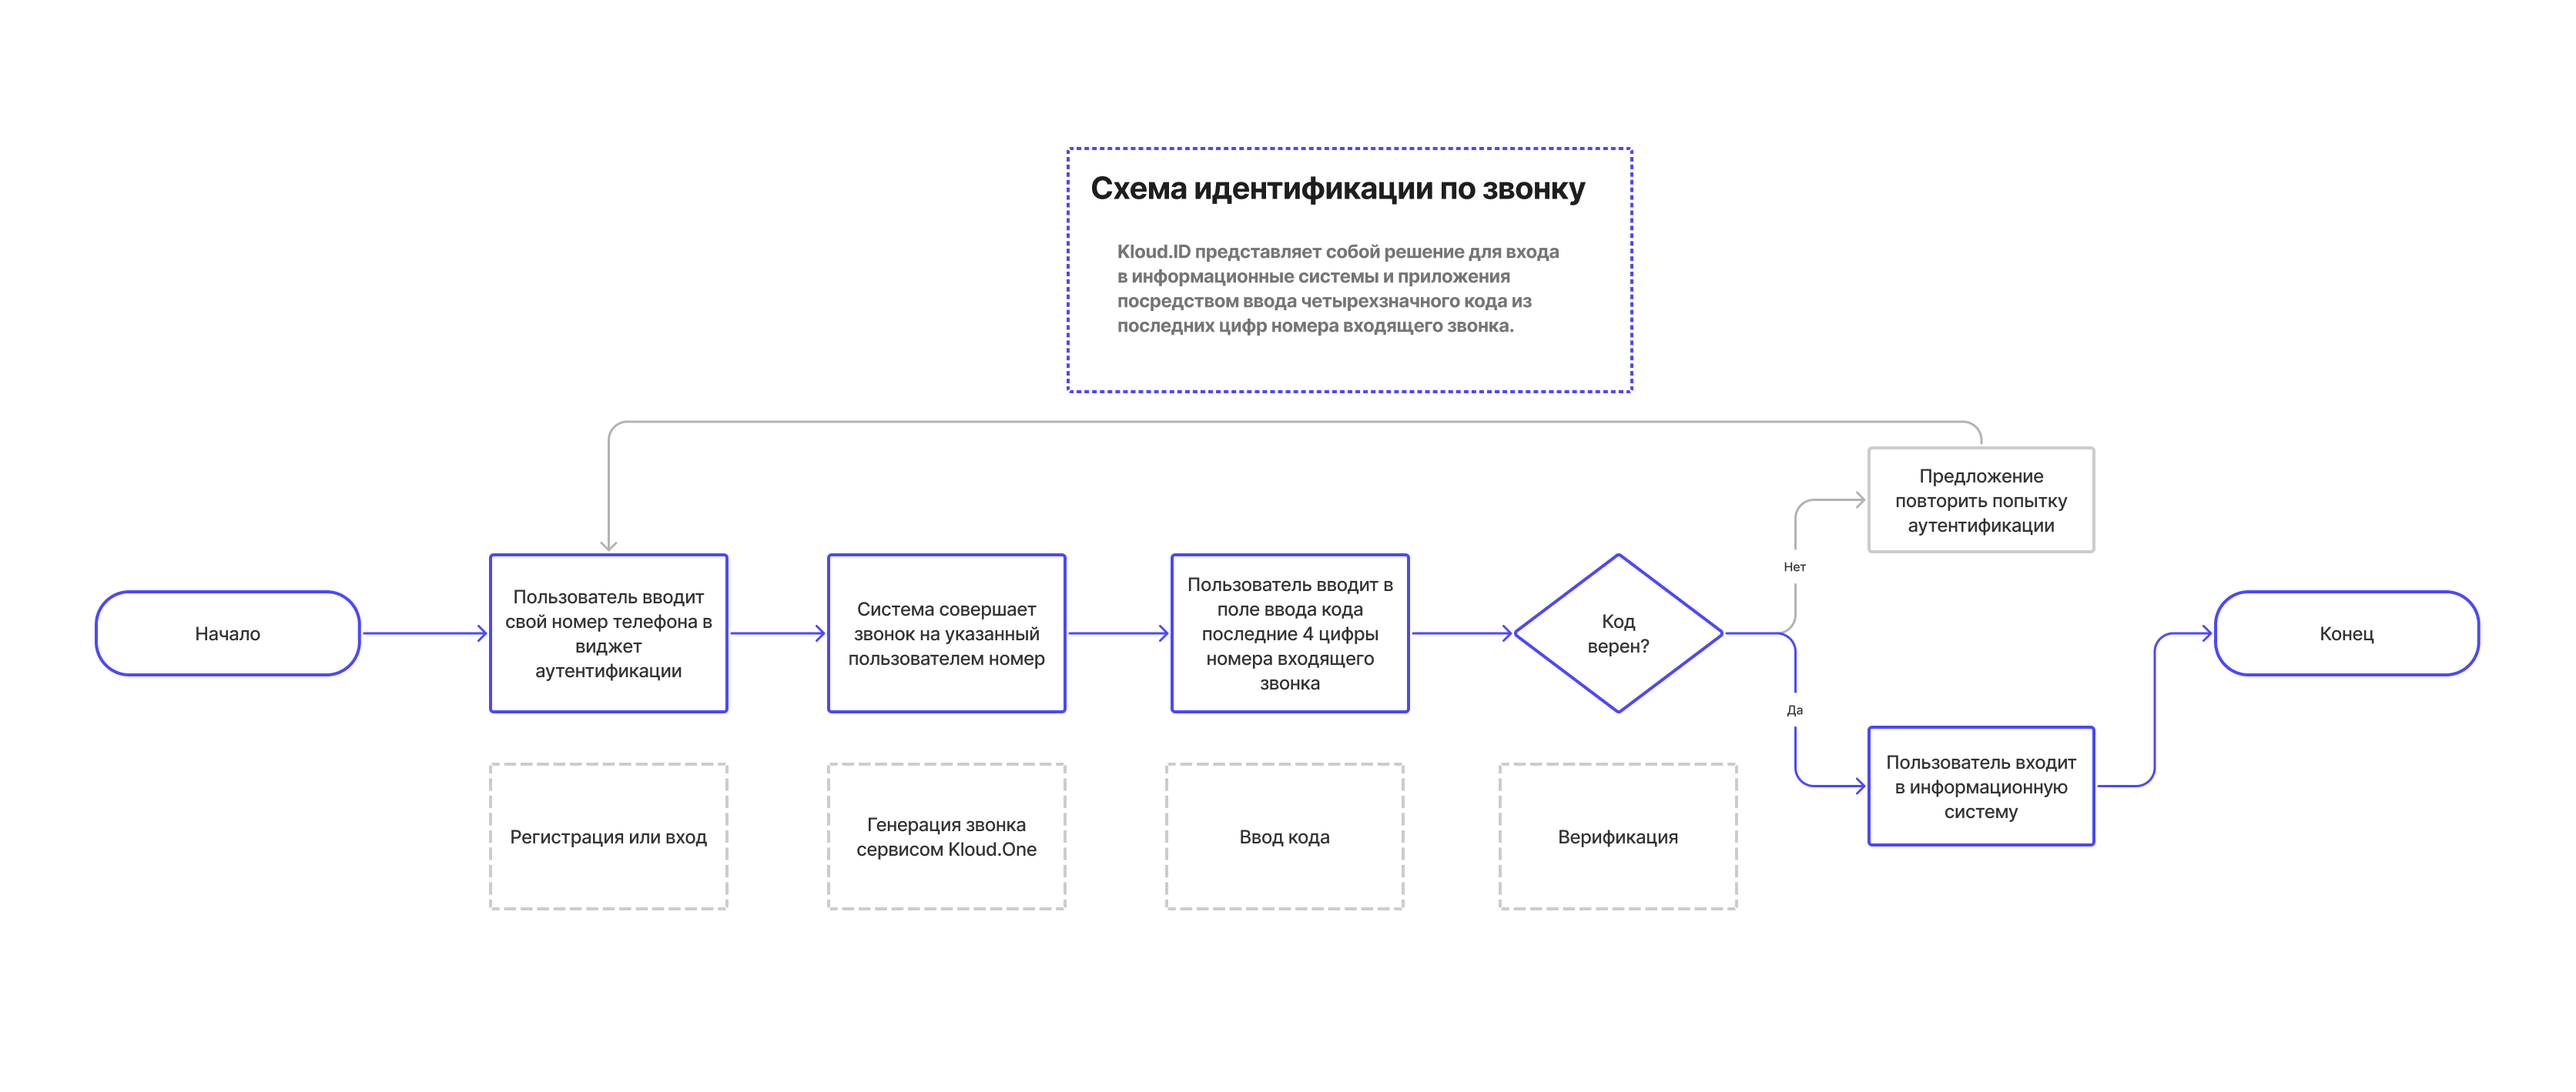
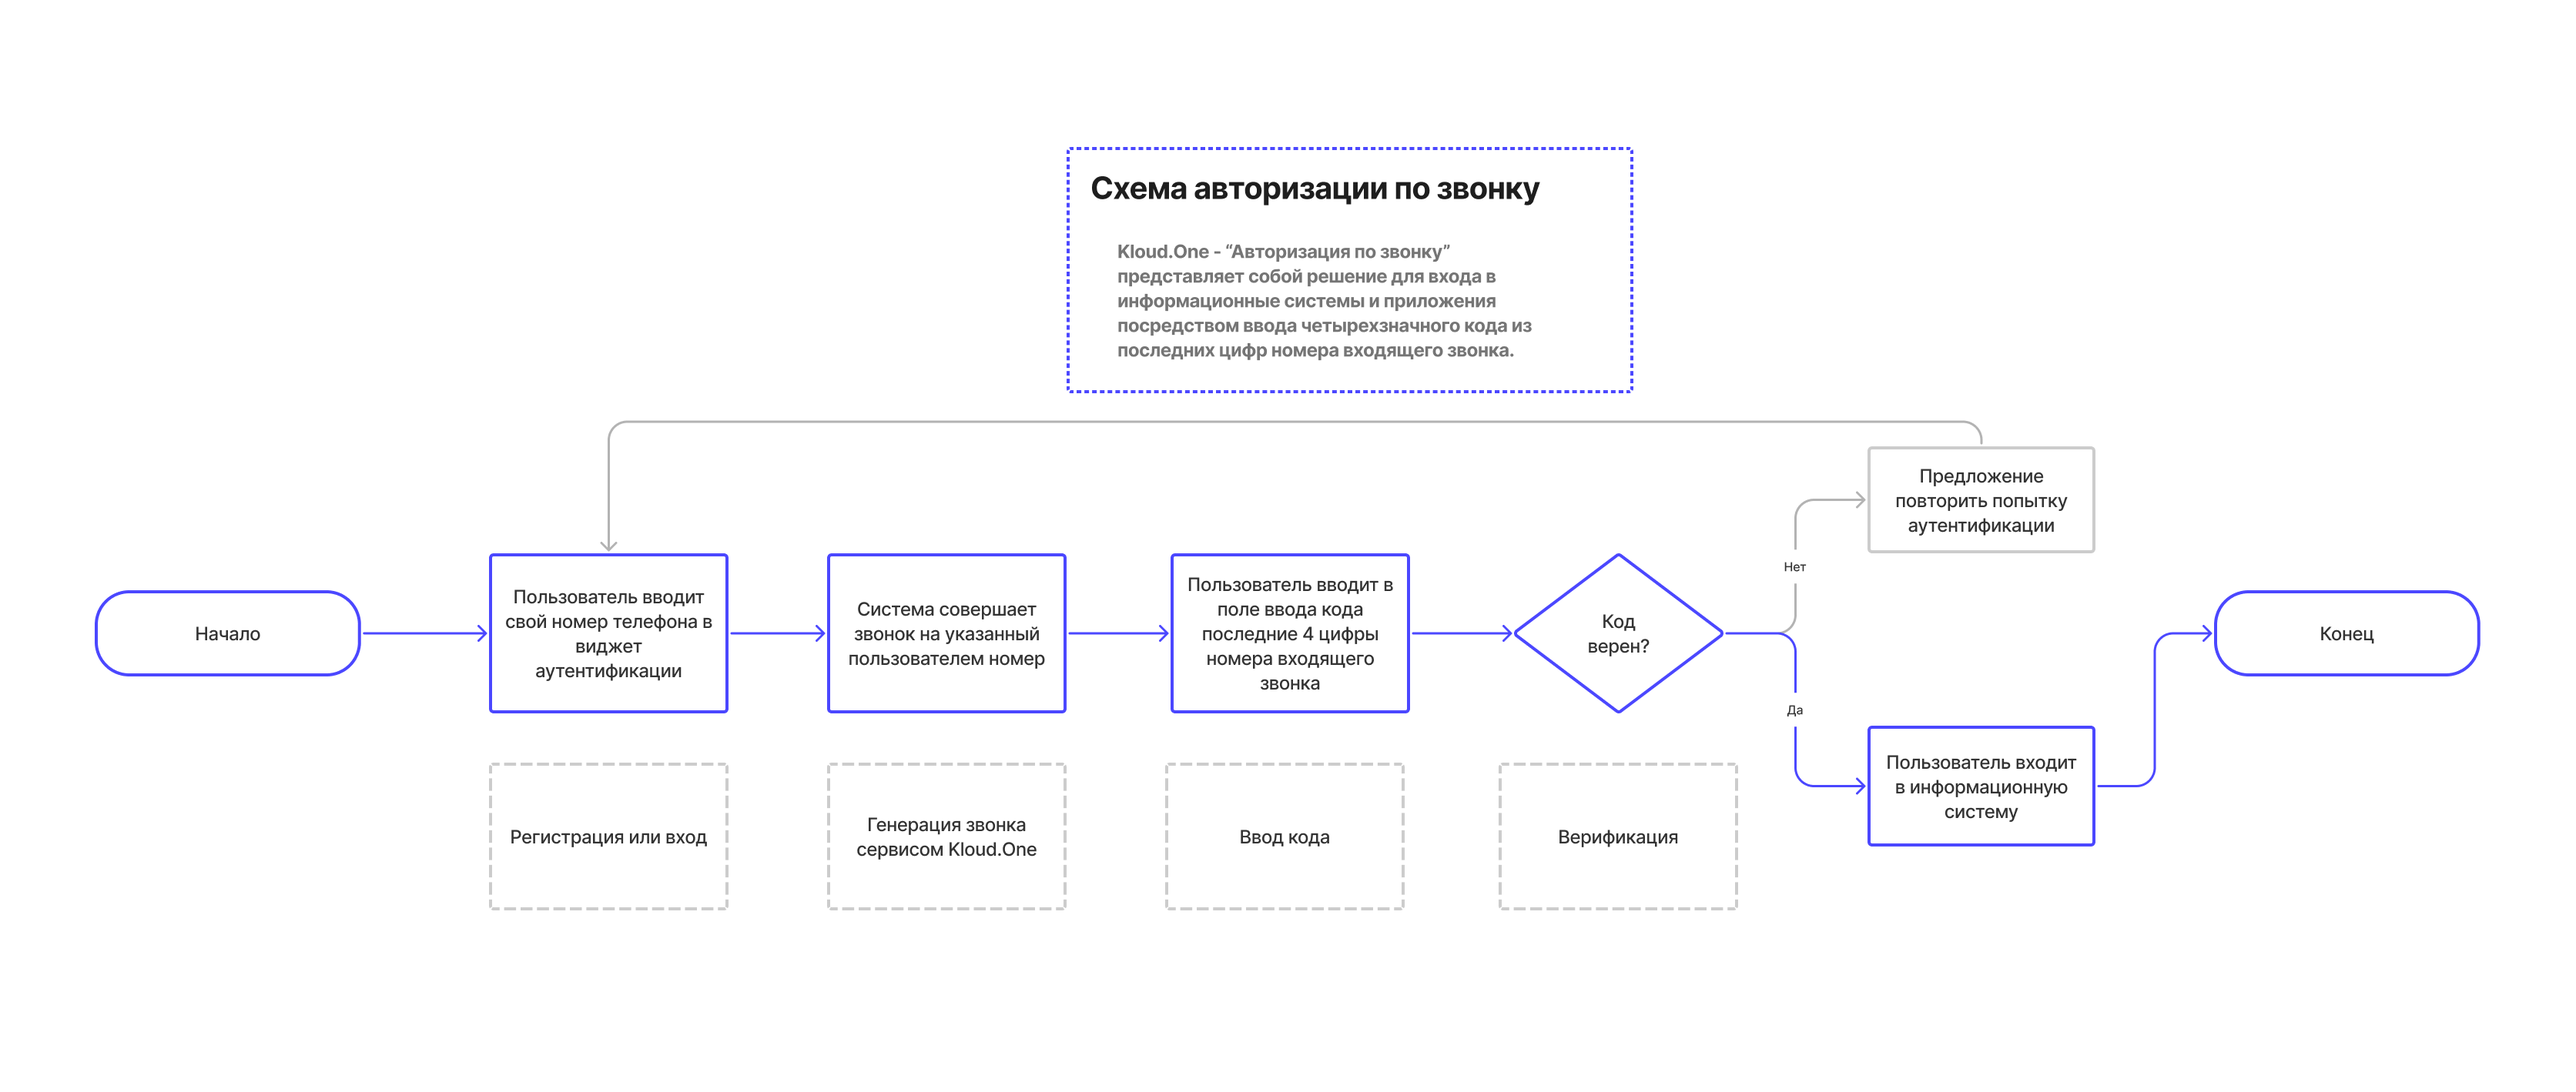
desc

Changed region(s): [[0.4353, 0.2171, 0.6218, 0.3411], [0.4664, 0.155, 0.6218, 0.186]]

diff --git a/content/03-ver.1.8/5-work_with_product_id/05-scheme_id.md b/content/03-ver.1.8/5-work_with_product_id/05-scheme_id.md
@@ -4,8 +4,22 @@ title: "Схема авторизации по звонку"
 sort: "09"
 ---
 
-## Приложение Авторизация по звонку
+## Приложение Авторизация по звонку: путь пользователя
 
-### Схема Авторизации по звонку
+**Авторизация по звонку Kloud.One** - это вход в приложение или веб-ресурс посредством ввода пароля, состоящего из последних цифр номера входящего звонка.
+
+Технологически процесс авторизации по звонку состоит из нескольких этапов:
+
+1. Пользователь вводит свой номер телефона.
+
+2. Система совершает звонок: дозвон на телефон пользователя осуществляется с одного из пула телефонных номеров на сервисе. Пул номеров объемен, каждый раз используется любой свободный номер, и этот пул расширяется в зависимости от нагрузки на систему.
+
+3. Пользователь вводит четыре последние цифры номера входящего звонка. Цифры, как правило, уникальны. Каждый раз цифровой набор кода будет новым. Если код верен, система подтверждает авторизацию пользователя.
+
+4. Система передает статус верификации, пользователь входит в свой кабинет. Верификация считается успешно завершенной.
+
+### Схема авторизации по звонку
 
 ![Картинка](./images_id/id_scheme.png "Нажмите для увеличения")
+
+Авторизация по звонку
